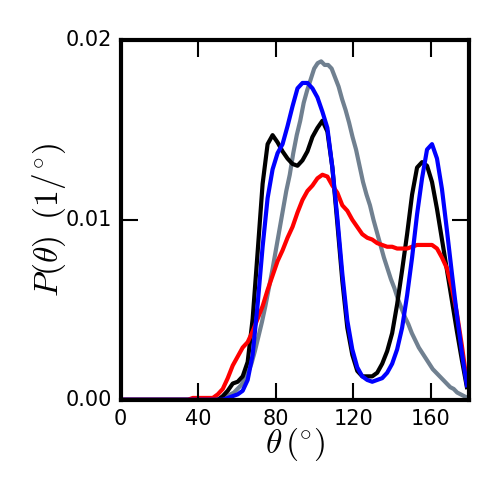
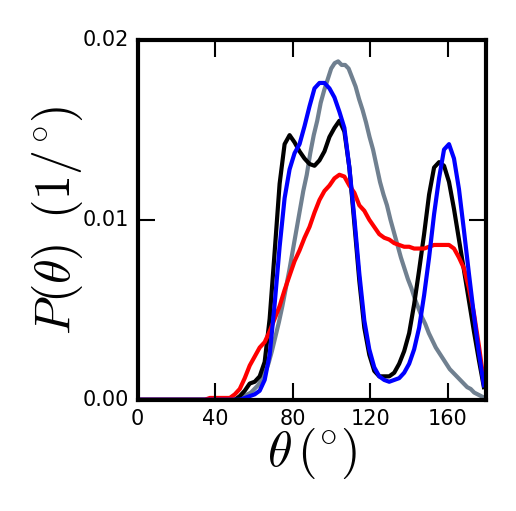
More work and getting ready to send to THG

Changed region(s): [[0.0601, 0.0609, 0.9619, 0.9432]]

diff --git a/paper/confinement.tex b/paper/confinement.tex
@@ -58,14 +58,14 @@
 %% when authors are associated with multiple institutions.
 %%%%%%%%%%%%%%%%%%%%%%%%%%%%%%%%%%%%%%%%%%%%%%%%%%%%%%%%%%%%%%%%%%%%%
 \author{Lisa E. Felberg}
-\altaffiliation{Department of Chemical and Biomolecular Engineering, University of California Berkeley, Berkeley, California 94720, USA}
+\affiliation{Department of Chemical and Biomolecular Engineering, University of California Berkeley, Berkeley, California 94720, USA}
 \author{Luis A. Ruiz Pestana}
-\altaffiliation{Chemical Sciences Division, Lawrence Berkeley National Labs, Berkeley, California 94720, USA}
+\affiliation{Chemical Sciences Division, Lawrence Berkeley National Labs, Berkeley, California 94720, USA}
 \author{Teresa Head-Gordon}
-\altaffiliation{Department of Chemical and Biomolecular Engineering, University of California Berkeley, Berkeley, California 94720, USA}
-\altaffiliation{Chemical Sciences Division, Lawrence Berkeley National Labs, Berkeley, California 94720, USA}
-\alsoaffiliation[DOC]{Department of Chemistry, University of California Berkeley, Berkeley, California 94720, USA}
-\alsoaffiliation[DOB]{Department of Bioengineering, University of California Berkeley, Berkeley, California 94720, USA}
+\affiliation{Department of Chemical and Biomolecular Engineering, University of California Berkeley, Berkeley, California 94720, USA}
+\alsoaffiliation{Chemical Sciences Division, Lawrence Berkeley National Labs, Berkeley, California 94720, USA}
+\alsoaffiliation{Department of Chemistry, University of California Berkeley, Berkeley, California 94720, USA}
+\alsoaffiliation{Department of Bioengineering, University of California Berkeley, Berkeley, California 94720, USA}
 \email{thg@berkeley.edu}
 
 %%%%%%%%%%%%%%%%%%%%%%%%%%%%%%%%%%%%%%%%%%%%%%%%%%%%%%%%%%%%%%%%%%%%%
@@ -132,13 +132,14 @@ The properties and phase behavior of water under nanoconfinement are remarkably 
 	
 	When water is confined under slit nanocapillaries it adopts a multi-layered structure characterized by strong density fluctuations along the direction of confinement. The effect of the confining surfaces persists at short range, ca. 5 \r A \cite{Cicero2008,Chialvo2016}, therefore multi-layered states of only up to three layers can be stable under planar confinement. In fact, trilayers of ice \cite{Algara-Siller2015,Satarifard2017,Zhu2015} and liquid water \cite{Giovambattista2009,Qiu2015} have been reported, but nothing beyond that. The tendency to form layered structures makes the commensurability between the confinement distance and the density of water an important aspect. In an incommensurate configuration, the density of water is too high or two low, all other control parameters constant, for the water molecules to form full layers of whatever phase is lower in energy under those thermodynamic conditions. A recent study found that oscillations in the shear viscosity of confined water of several orders of magnitude occur over small variations in the confinement distance (under 1 \r A) due to transitions between incommensurate and commensurate states \cite{Neek-Amal2016}. Phase transitions can also be triggered upon changes in commensurability. Giovambattista et al. found a transition between a bilayer liquid (BL) and a trilayer heterogeneous fluid (THF) upon increasing the density of water while keeping the confinement distance constant between 8 \r A and 9 \r A. The THF phase was characterized by highly ordered layers close to the confining surfaces and a disordered middle layer. When the confinement distance was kept at 6 \r A, a transition between THF and bilayer ice (BI) occurred upon decompression instead. Commensurability also plays a critical role on the formation of crystalline configurations with long-range in-plane order such as ice \cite{Satarifard2017,Chen2017,Corsetti2016}. For commensurate configurations at room temperature, multi-layered ice can form under confinement at pressures in the order of several GPa \cite{Zhu2015}. A special case is the formation of square ice from droplets of water confined between graphene sheets, which was observed at ambient pressure \cite{Algara-Siller2015}. However, in that case, the interfacial adhesion forces between the confining graphene surfaces were able to generate a pressure of around 1 GPa within the confined space. Interestingly, it has been proposed that upon increasing the density of water, a confined system can transition from liquid, to a low-density ice phase, back to high-density liquid, to finally a high-density ice phase \cite{Han2010}.
 	
-	Here, using molecular dynamics simulations, we study the phase behavior of water confined under flexible graphene sheets at ambient temperature and pressure (0.1 MPa and 300 K). We systematically vary the amount of water in the nanocapillary, \(\rho_{2D}\), and relax the system in the confinement direction so that it reaches an equilibrium confinement distance, \(d_{gg}\). We also simulate the same systems using rigid graphene sheets for comparison. We find that both rigid and flexible cases show intervals of \(\rho_{2D}\) where the \(d_{gg}\) changes smoothly, which correspond to monolayer, bilayer, and trilayer states of the system. However, we find that the transitions between multi-layered states are qualitatively different for the rigid and flexible cases. The rigid systems exhibit discontinuous transitions, characterized by sudden jumps in \(d_{gg}\). Under flexible confinement we find instead that the graphene sheets bend slightly to accommodate an n-layer and an n+1-layer state coexisting next to each other. This finding suggests that incommensurate states are energetically unfavorable, so that when the constrain of infinite rigidity of the confining surfaces is relaxed, the system splits into two commensurate states with a different number of layers. A similar coexisting state has been observed under imposed inhomogeneous confinement \cite{Qiu2015}, with the important difference that the inhomogeneity is not enforced here. Regarding the in-plane phase behavior, at incommensurate configurations in the monolayer and bilayer states, we observe solid-gas coexistence. The water molecules in the solid phase can this way develop crystalline order that would be impossible otherwise if the ice had to tile the entire confining space. We identify square and rhombic ice in the monolayer state, and AA-stacking hexagonal ice in the bilayer state, with both containing a large number of defects arising from the incommensurability between the rectangular boundaries of the simulation box and the circular geometry of the solid-gas interface. Our study provides new comprehensive understanding of the phase behavior of confined water, and sheds light into the role of flexible confinement and its interplay with commensurability effects. Furthermore, our results, based on a realistic model of graphene, will be useful to interpret experimental results in the future, where graphene is ubiquitously employed.
+	Here, using molecular dynamics simulations, we study the phase behavior of water confined under flexible graphene sheets at ambient temperature and pressure (0.1 MPa and 300 K). We systematically vary the amount of water in the nanocapillary, \(\rho_{2D}\), and relax the system in the confinement direction so that it reaches an equilibrium confinement distance, \(d_{gg}\). We also simulate the same systems using rigid graphene sheets for comparison. We find that both rigid and flexible cases show intervals of \(\rho_{2D}\) where the \(d_{gg}\) changes smoothly, which correspond to monolayer, bilayer, and trilayer states of the system. However, we find that the transitions between multi-layered states are qualitatively different for the rigid and flexible cases. The rigid systems exhibit discontinuous transitions, characterized by sudden jumps in \(d_{gg}\). Under flexible confinement we find instead that the graphene sheets bend slightly to accommodate an n-layer and an n+1-layer state coexisting next to each other. This finding suggests that incommensurate states are energetically unfavorable, such that when the constraint of infinite rigidity of the confining surfaces is relaxed, the system splits into two commensurate states with a different number of layers. A similar coexisting state has been observed under imposed inhomogeneous confinement \cite{Qiu2015}, with the important difference that the inhomogeneity is not enforced here. Regarding the in-plane phase behavior, at incommensurate configurations in the monolayer and bilayer states, we observe solid-gas coexistence. The water molecules in the solid phase can this way develop crystalline order that would be impossible otherwise if the ice had to tile the entire confining space. We identify square and rhombic ice in the monolayer state, and AA-stacking hexagonal ice in the bilayer state, with both containing a large number of defects arising from the incommensurability between the rectangular boundaries of the simulation box and the circular geometry of the solid-gas interface. Our study provides new comprehensive understanding of the phase behavior of confined water and sheds light into the role of flexible confinement and its interplay with commensurability effects. Furthermore, our results, based on a realistic model of graphene, will be useful to interpret experimental results in the future, where graphene is ubiquitously employed.
 
 \section{Results and discussion}
 
 	In this section, we first analyze how the number of layers in the system varies as we increase the 2D density of water, \(\rho_{2D}\), effectively characterizing the out-of-plane response of the system to confinement. We will refer to the monolayer, bilayer, trilayer states as ML, BL, and TL. Second, we analyze the phase behavior of water for each case, which will give us detailed information about the phase of water: solid, liquid, or gas. We will highlight throughout the differences between flexible and rigid confinement. 
 	
-	The only control parameter in our system is \(\rho_{2D}\) (i.e. the confinement distance is not prescribed). We investigate values of \(\rho_{2D}\) from \(\sim0.06\) to \(\sim0.5\), which allows us to sample systems ranging from an incomplete ML to TL systems and beyond. By using \(\rho_{2D}\) as a control parameter we also avoid making ambiguous assignments of the 3D density under confinement, which requires choosing an ill-defined excluded distance from the confining surfaces. Figure \ref{fig:dgg_1} shows the dependence of the equilibrium confining distance, \(d_{gg}\), on \(\rho_{2D}\), for both flexible and rigid cases. We observe three well-defined regimes characterized by smooth changes of \(d_{gg}\), which are separated by discontinuous transitions signaled by abrupt changes in \(d_{gg}\). The first regime, 6 \r A < \(d_{gg}\) < 8 \r A, corresponds to ML states, the second regime, 8 \r A \(d_{gg}\) < 10 \r A, to BL states, and beyond 10 \r A to TL states. This behavior is in agreement with previous studies. In the ML and BL states, the equilibrium confinement distance varies only marginally as \(\rho_{2D}\) is increased. For the TL case, however, a linear dependence is observed, \(d_{gg} \propto \rho_{2D}\). This is signature of bulk behavior where \(\rho_{3D}\) = constant, and because \(\rho_{3D}\) = \(\rho_{2D}\)/\(d_{gg}\), it implies that \(d_{gg} \propto \rho_{2D}\). 
+\subsection{Out-of-plane ordering}
+	The only control parameter in our system is \(\rho_{2D}\) (i.e. the confinement distance is not prescribed). We investigate values of \(\rho_{2D}\) from \(\sim0.06\) to \(\sim0.5\), which allows us to sample systems ranging from an incomplete ML to TL systems and beyond. By using \(\rho_{2D}\) as a control parameter we also avoid making ambiguous assignments of the 3D density under confinement, which requires choosing an ill-defined excluded distance from the confining surfaces. Figure \ref{fig:dgg_1} shows the dependence of the equilibrium confining distance, \(d_{gg}\), on \(\rho_{2D}\), for both flexible and rigid cases. We observe three well-defined regimes characterized by smooth changes of \(d_{gg}\), which are separated by discontinuous transitions signaled by abrupt changes in \(d_{gg}\). The first regime, 6 \r A < \(d_{gg}\) < 8 \r A, corresponds to ML states, the second regime, 8 \r A \(d_{gg}\) < 10 \r A, to BL states, and beyond 10 \r A to TL+ states. This behavior is in agreement with previous studies. In the ML and BL states, the equilibrium confinement distance varies only marginally as \(\rho_{2D}\) is increased. For the TL case, however, a linear dependence is observed, \(d_{gg} \propto \rho_{2D}\). This is signature of bulk behavior where \(\rho_{3D}\) = constant, and because \(\rho_{3D}\) = \(\rho_{2D}\)/\(d_{gg}\), it implies that \(d_{gg} \propto \rho_{2D}\). 
 	
 	\begin{figure}[ht!]
 		\centering
@@ -149,34 +150,36 @@ The properties and phase behavior of water under nanoconfinement are remarkably 
 		\label{fig:dgg_1}
 	\end{figure}
 	
-	The transitions between states with different number of layers occur for both rigid and flexible graphene at the same values of \(\rho_{2D}\), however they are qualitatively different. The rigid case is characterized by discontinuous ML-BL, and BL-TL transitions, although the latter seems more gradual than the former. Further work focusing on this transition  is required to establish unequivocally whether the BL-TL transition is continuous or discontinuous. In the case of flexible confinement, at the transitions we observe a split in the \(d_{gg}\) distances (shown as pink diamonds in Figure \ref{fig:dgg_1}). Upon closer inspection, we observe the coexistence of an n-layer and an (n+1)-layer state in the same system, spatially separated by an interface (Fig. \ref{fig:dgg_2}). We observe the split even for low density ML (Fig. \ref{fig:dgg_2}a), where the strong graphene adhesion helps forming pockets of ice, similarly to the phenomena observed in Ref.~\citenum{Algara-Siller2015}. The heat maps in Figure \ref{fig:dgg_2} show the position of water as a function of \(d_{gg}\) averaged over time. The nL/(n+1)L coexisting states are particularly clear in these plots.  
+	The transitions between states with different number of layers occur for both rigid and flexible graphene at the same values of \(\rho_{2D}\), however they are qualitatively different. The rigid case is characterized by discontinuous ML-BL, and BL-TL transitions, although the latter seems more gradual than the former. Further work focusing on this transition is required to establish unequivocally whether the BL-TL transition is continuous or discontinuous. In the case of flexible confinement, at the transitions we observe a split in the \(d_{gg}\) distances (shown as pink diamonds in Figure \ref{fig:dgg_1}). Upon closer inspection, we observe the coexistence of an n-layer and an (n+1)-layer state in the same system, spatially separated by an interface (Fig. \ref{fig:dgg_2}). We observe the split even for low density ML (Fig. \ref{fig:dgg_2}a), where the strong graphene adhesion helps forming pockets of ice, similarly to the phenomena observed in Ref.~\citenum{Algara-Siller2015}. The heat maps in Figure \ref{fig:dgg_2} show the position of water as a function of \(d_{gg}\) averaged over time. The nL/(n+1)L coexisting states are particularly clear in these plots.  
 	
 	\begin{figure}[ht!]
 		\centering
 		\includegraphics[width=.89\textwidth]{dgg_snaps7}
-		\caption{\textit{Snapshots of out-of-plane water layering and heatmap of water location and graphene-graphene separation.} \textbf{Snapshots.} Water-graphene systems as a function of increasing 2D-density, water oxygens are red, graphene carbons are grey and water hydrogens are not displayed for clarity. Panels (i), (ii) and (iii) correspond to flexible systems, and panels (iv), (v), and (vi) correspond to rigid systems. Images not drawn to size. \textbf{Heatmaps.} 2D histogram of the distance of water to a reference wall versus the graphene-graphene separation distance, warmer colors representing a higher number of observations.}
+		\caption{\textit{Snapshots of out-of-plane water layering and heatmap of water location and graphene-graphene separation.} Left panels correspond to flexible systems, and right panels correspond to rigid systems. \textbf{Snapshots.} Water-graphene systems as a function of increasing 2D-density, water oxygens are red, graphene carbons are grey and water hydrogens are not displayed for clarity. \textbf{Heatmaps.} 2D histogram of the distance of water to a reference wall versus the graphene-graphene separation distance, warmer colors representing a higher number of observations.}
 		\label{fig:dgg_2}
 	\end{figure}
 	
-	The incommensurability of the systems at the transition points is evidenced by a broadening of the density peaks, as in the BL-TL transition illustrated in Figure \ref{fig:dgg_2_to_3}. The heat maps reveal two broad peaks in the case of rigid confinement and a split between BL and TL in the case of flexible graphene.   
+	The incommensurability of the systems at the transition points is evidenced by a broadening of the density peaks at \(\rho_{2D}\)=0.245, in the BL-TL transition illustrated in Figure \ref{fig:dgg_2_to_3}. The heat maps reveal two broad peaks in the case of rigid confinement and a split between BL and TL in the case of flexible graphene. Additionally at the \(\rho_{2D}\) depicted (0.245), the graphene separation for the rigid system falls between the split of the analogous flexible case (Fig \ref{fig:dgg_1}).
 	
 	\begin{figure}[ht!]
 		\centering
 		\includegraphics[width=0.49\textwidth]{d12_smearing} %
-		\caption{\textit{Snapshots of out-of-plane water layering and heatmap of water location and graphene-graphene separation for bilayer to trilayer transition.} \textbf{Snapshots.} Water-graphene systems as a function of increasing 2D-density, water oxygens are red, graphene carbons are grey and water hydrogens are not displayed for clarity. Images not drawn to size. \textbf{Heatmaps.} 2D histogram of the distance of water to a reference wall versus the graphene-graphene separation distance, warmer colors representing a higher number of observations.}
+		\caption{\textit{Snapshots of out-of-plane water layering and heatmap of water location and graphene-graphene separation for bilayer to trilayer transition.} (a,c) Water-graphene systems as a function of increasing 2D-density, water oxygens are red, graphene carbons are grey and water hydrogens are not displayed for clarity. Images not drawn to size. (b,d) 2D histogram of the distance of water to a reference wall versus the graphene-graphene separation distance, warmer colors representing a higher number of observations. (a-b) Represent flexible system, (c-d) represent rigid system.}
 		\label{fig:dgg_2_to_3}
 	\end{figure}
 	
 	%%%%%%%%%%%%%%%%%%%%%%%%%%%%%%%%%%%%%%%%
 	%%%%%%%%%%%%%%%%%%%%%%%%%%%%%%%%%%%%%%%%
 
-Besides the transitions between multi-layered states as \(\rho_{2D}\) is increased, full characterization of the state of water under confinement requires assessing the in-plane structure and dynamics, so that we can discern between ice, liquid, gas, or more complex phases such as glass or heterogeneous liquids. For this purpose, we calculate the oxygen-oxygen pair correlation function \(g_{OO}(R)\), the 3-body angle distributions between the oxygen atoms of coplanar water molecules, \(p(\theta\)), and the lateral mean-squared-displacement, \(MSD_{||}\), for all the cases. To calculate \(g_{OO}(R)\) the oxygen atoms were histogrammed into 0.6\r A bins according to their x-coordinate. The RDF was calculated for each bin, and the average of all bins is the \(g_{OO}(R)\). For the 3-body angle distributions, the angle \(\theta\) is the angle between the oxygen and the first and second nearest neighbors within the same bin. We estimate the lateral diffusion coefficient, \(\mathcal{D}_{||}\), from the lateral MSD using Einstein's relation.
+\subsection{In-plane structure}
 
-We start by analyzing the phase behavior in the ML state, which spans from \(\rho_{2D}=0.065\) to \(\rho_{2D}=0.130\) and 6 \r A < \(d_{gg}\) < 8 \r A (Figure \label{fig:struct_6_7_8}). For the lowest density investigated \(\rho_{2D}=0.065\), there is not enough water to form a full monolayer. In the rigid case this leads to liquid-vapor coexistence. We assign the liquid label because of the relatively high diffusivity of 2.26, which is close to bulk water. It is important to note, however, that the monolayer liquid does not resemble structurally bulk water characterized by tetrahedral order. The \(p(\theta\)) in this case reveals a peak at ~104 degrees, similarly to bulk water, but also a smaller peak arount 120 degrees. The RDF of this ML-liquid phase is also substantially more structured than bulk water. For \(\rho_{2D}=0.065\), the flexible system forms pockets of square and rhombic ice, characterized by peaks in \(p(\theta\)) at ~90 and 160 degrees. The regions where there is no water is because the graphene sheets are in close contact, there is no water vapor in the system. The diffusivity is 4 order of magnitude lower in the flexible case. When the density is increased to 0.097 and 0.130, for the rigid case Figure \ref{fig:gr_ang_6_7_8_r}a, the \(g_{OO}(R)\) become substantially more structured, and the \(p(\theta\)) are characterized by a bimodal distribution with peaks at 90 and 160 degrees, representative of square and rhombic ice respectively. Close up snapshots of these ice structures are shown in Figure \ref{fig:ice_sq}. The appearance of ice is also confirmed by the self-diffusion coefficients. At \(\rho_{2D}=0.097\) the ice phase coexists with a vapor phase, while the vapor phase practically vanishes at \(\rho_{2D}=0.130\). The flexible case is very similar to the rigid confinement for \(\rho_{2D}=0.130\), where ML-ice forms. However, at \(\rho_{2D}=0.130\) the system resembles the liquid-vapor coexistence observed for the rigid case at \(\rho_{2D}=0.065\). In summary, for the ML states, at \(\rho_{2D}=0.130\), before the transition to the BL, both rigid and flexible systems behave very similarly, displaying phases of ML-ice. For \(\rho_{2D}=0.065\) the rigid system shows a ML-liquid-vapor phase, and the flexible system displays pockets of ML-ice. For \(\rho_{2D}=0.097\) is the other way around, with the flexible systems displaying ML-liquid-vapor phase, and the rigid systems ML-ice-vapor coexistence. 
+Besides the transitions between multi-layered states as \(\rho_{2D}\) is increased, full characterization of the state of water under confinement requires assessing the in-plane structure and dynamics, so that we can discern between ice, liquid, gas, or more complex phases such as glass or heterogeneous liquids. For this purpose, we calculate the oxygen-oxygen pair correlation function \(g_{OO}(R)\), the 3-body angle distributions between the oxygen atoms of coplanar water molecules, \(p(\theta\)), and the lateral mean-squared-displacement, \(MSD_{||}\), for all the cases. To calculate \(g_{OO}(R)\), the oxygen atoms were histogrammed into 0.6\r A bins according to their x-coordinate. The RDF was calculated for each bin, and the average of all bins is the \(g_{OO}(R)\). For the 3-body angle distributions, the angle \(\theta\) is the angle between the oxygen and the first and second nearest neighbors within the same bin. We estimate the lateral diffusion coefficient, \(\mathcal{D}_{||}\), from the lateral MSD using Einstein's relation.
+
+We start by analyzing the phase behavior in the ML state, which spans from \(\rho_{2D}=0.062\) to \(\rho_{2D}=0.123\) and 6 \r A < \(d_{gg}\) < 8 \r A (Figure \ref{fig:struct_6_7_8}). For the lowest density investigated \(\rho_{2D}=0.062\), there is not enough water to form a full monolayer. In the rigid case this leads to liquid-vapor coexistence. We assign the liquid label because of the relatively high diffusivity of 2.26, reported in Figure \ref{fig:msd}a, which is close to bulk water. It is important to note, however, that the monolayer liquid does not resemble structurally bulk water characterized by tetrahedral order. The \(p(\theta\)) in this case reveals a peak at \(\sim\)104 degrees, similarly to bulk water, but also a smaller peak around 120 degrees. The RDF of this ML-liquid phase is also substantially more structured than bulk water. For \(\rho_{2D}=0.062\), the flexible system forms pockets of square and rhombic ice (Fig \ref{fig:ice_figs}a), characterized by peaks in \(p(\theta\)) at \(\sim\)90 and 160 degrees. The snapshot of the system reveals a region where there is no water, but unlike the rigid \(\rho_{2D}=0.062\) system, this area is not a vapor region, but a region of graphene-graphene contact (Fig \ref{fig:dgg_2}a), there is no water vapor in the flexible system. The diffusivity is 4 orders of magnitude lower in the flexible case. When the density is increased to 0.092 and 0.123, for the rigid case Figure \ref{fig:gr_ang_6_7_8_r}, the \(g_{OO}(R)\) become substantially more structured, and the \(p(\theta\)) are characterized by a bimodal distribution with peaks at 90 and 160 degrees, representative of square and rhombic ice respectively. Close up snapshots of these ice structures are shown in Figure \ref{fig:ice_figs}a. The appearance of ice is also confirmed by the self-diffusion coefficients. At \(\rho_{2D}=0.092\) the ice phase coexists with a vapor phase, while the vapor phase practically vanishes at \(\rho_{2D}=0.123\). The flexible case is very similar to the rigid confinement for \(\rho_{2D}=0.123\), where ML-ice forms. However, at \(\rho_{2D}=0.123\) the system resembles the liquid-vapor coexistence observed for the rigid case at \(\rho_{2D}=0.062\). In summary, for the ML states, at \(\rho_{2D}=0.123\), before the transition to the BL, both rigid and flexible systems behave very similarly, displaying phases of ML-ice. For \(\rho_{2D}=0.062\) the rigid system shows a ML-liquid-vapor phase, and the flexible system displays pockets of ML-ice between graphene-graphene contacts. For \(\rho_{2D}=0.092\), the flexible systems exhibit a ML-liquid-vapor phase, and the rigid systems exhibit a ML-ice-vapor coexistence. 
 	
-The results of the analysis for the BL states are shown in Figure \ref{fig:gr_ang_9_10_11_r}. The BL regime spans from \(\rho_{2D}=0.163\) to \(\rho_{2D}=0.227\) and 8 \r A < \(d_{gg}\) < 10 \r A. For the rigid case, the coexistence of ice and vapor is observed for \(\rho_{2D}=0.163\) and \(\rho_{2D}=0.196\). In contrast to the ML-ice, the BL-ice phase displays AA stacking hexagonal structure with an abundance of defects necessary to accommodate the nearly circular vapor-solid interface in the rectangular simulation box (Fig. \ref{fig:ice_figs}b). As \(\rho_{2D}\) is increased to 0.227, the amount of water confined is too large to develop in-plane crystalline order, and the water adopts a liquid phase, with small patches of ice nucleating and dissipating constantly. This effect is reflected in the lower-than-liquid self-diffusion coefficient, and in the shoulder at \(\theta\simeq140\) in the \(p(\theta\)) distribution. These ice nucleation events suggest that we are close to the solid-liquid phase transition. In the flexible case, for \(\rho_{2D}=0.163\) we have ML-liquid and BL-liquid coexisting. At higher densities, the system transitions to the BL state. The water phase in the BL states is very similar to that observed for rigid confinement when \(\rho_{2D}=0.227\), namely BL-liquid. The diffusivity when \(\rho_{2D}=0.227\) is slightly higher in the flexible case.
+The results of the analysis for the BL states are shown in Figure \ref{fig:struct_9_10_11}. The BL regime spans from \(\rho_{2D}=0.154\) to \(\rho_{2D}=0.215\) and 8 \r A < \(d_{gg}\) < 10 \r A. For the rigid case, the coexistence of ice and vapor is observed for \(\rho_{2D}=0.154\) and \(\rho_{2D}=0.185\). In contrast to the ML-ice, the BL-ice phase displays AA stacking hexagonal structure with an abundance of defects necessary to accommodate the nearly circular vapor-solid interface in the rectangular simulation box (Fig. \ref{fig:ice_figs}b). This is confirmed by the enhanced structure of the \(g_{OO}(R)\) plots in Fig \ref{fig:gr_ang_9_10_11_r}, which exhibit a smooth oscillatory structure, higher than bulk water and qualitatively different from the structure of square ice. Additionally, the peak of \(p(\theta\)) has shifted to \(\sim\)114 and the shoulder at 160 has vanished. As \(\rho_{2D}\) is increased to 0.215, the amount of water confined is too large to develop in-plane crystalline order, and the water adopts a liquid phase, with small patches of ice nucleating and dissipating constantly. This effect is reflected in the lower-than-liquid self-diffusion coefficient, and in the shoulder at \(\theta\simeq140\) in the \(p(\theta\)) distribution. These ice nucleation events suggest that we are close to the solid-liquid phase transition. In the flexible case, for \(\rho_{2D}=0.154\) we have ML-liquid and BL-liquid coexisting, as observed from simulation snapshots (Fig \ref{fig:gr_ang_9_10_11_f}. These coexisting phases are also structurally different, as confirmed by their \(g_{OO}(R)\) and \(p(\theta\)) plots. Although there are structural differences between the n=1 and n=2 regions of the system, the interface between the two prevents any solidification of the n=1 component, and the resulting \(D_{||}\) is similar to the other BL-liquid systems studied. At higher densities, the system transitions to the BL state. The water phase in the BL states is very similar to that observed for rigid confinement when \(\rho_{2D}=0.215\), namely BL-liquid. The diffusivity when \(\rho_{2D}=0.215\) is slightly higher in the flexible case.
 
-As we increase the density beyond 0.260, the systems transition into the TL states, where the differences between rigid and flexible systems are minor. Under our simulations conditions, the water in the TL state is in liquid phase, for both rigid and flexible systems, even the layers close to the confining surfaces. The only difference between flexible and rigid confinement for the TL state is the higher self-diffusion coefficients in the former case. But all converge towards bulk liquid at large densities. The analysis fo the TL states is in good agreement with previous studies (Ref.~\citenum{Mosaddeghi2012}).
+As we increase the density beyond 0.245, the systems transition into the TL state and subsequently into 4+ layer states, where the differences between rigid and flexible systems are minor. Under our simulations conditions, the water in the TL state is in liquid phase, for both rigid and flexible systems, even the layers close to the confining surfaces. The only difference between flexible and rigid confinement for the TL state is the higher self-diffusion coefficients in the former case. But all converge towards bulk liquid at large densities. The analysis for the TL states is in good agreement with previous studies (Ref.~\citenum{Mosaddeghi2012}).
 
 \setlength{\fboxsep}{0.75pt}%
 \setlength{\fboxrule}{1.2pt}%
@@ -208,7 +211,7 @@ As we increase the density beyond 0.260, the systems transition into the TL stat
     \caption{}
     \label{fig:gr_ang_6_7_8_f}
   \end{subfigure}}
-	\caption{\textit{Monolayer lateral oxygen-oxygen pair correlation functions, three-body angle distributions, and snapshots of monolayer systems.} (\protect\subref{fig:gr_ang_6_7_8_r}) rigid systems, (\protect\subref{fig:gr_ang_6_7_8_f}) flexible systems.  \textbf{Top.} Distribution of water oxygen distances and distribution of intralayer 3B angle formed between and given oxygen and its 2 nearest neighbors. \textbf{Bottom.} Snapshots of systems from left to right: \(\rho_{2D}=\) 0.065, 0.097, 0.130. Oxygens are in red, hydrogens are in white and for clarity, only one interlayer of water is depicted, and the graphene sheets are not displayed. Lateral diffusion coefficients are given in units of \((m^2/s) \times 10^9\), in the colored box in the bottom right corner. The lowest density system of (\protect\subref{fig:gr_ang_6_7_8_f}) is comprised of a coexistence between different number of water interlayers, highlighted in black (n=0) and blue (n=1).}
+	\caption{\textit{Monolayer lateral oxygen-oxygen pair correlation functions, three-body angle distributions, and snapshots of monolayer systems.} (\protect\subref{fig:gr_ang_6_7_8_r}) rigid systems, (\protect\subref{fig:gr_ang_6_7_8_f}) flexible systems.  \textbf{Top.} Distribution of water oxygen distances and distribution of intralayer 3B angle formed between and given oxygen and its 2 nearest neighbors. \textbf{Bottom.} Snapshots of systems from left to right: \(\rho_{2D}=\) 0.062, 0.092, 0.123. Oxygens are in red, hydrogens are in white and for clarity, only one interlayer of water is depicted, and the graphene sheets are not displayed. Lateral diffusion coefficients are given in units of \((m^2/s) \times 10^9\), in the colored box in the bottom right corner. The lowest density system of (\protect\subref{fig:gr_ang_6_7_8_f}) is comprised of a coexistence between different number of water interlayers, highlighted in black (n=0) and blue (n=1).}
 	\label{fig:struct_6_7_8}
 \end{figure}
 
@@ -239,13 +242,13 @@ As we increase the density beyond 0.260, the systems transition into the TL stat
     \caption{}
     \label{fig:gr_ang_9_10_11_f}
   \end{subfigure}}
-	\caption{\textit{Bilayer lateral oxygen-oxygen pair correlation functions, three-body angle distributions, and snapshots of monolayer systems.} (\protect\subref{fig:gr_ang_9_10_11_r}) rigid systems, (\protect\subref{fig:gr_ang_9_10_11_f}) flexible systems. \textbf{Top.} Distribution of water oxygen distances and distribution of intralayer 3B angle formed between and given oxygen and its 2 nearest neighbors. \textbf{Bottom.} Snapshots of systems from left to right: \(\rho_{2D}=\) 0.163, 0.196, 0.227. Oxygens are in red, hydrogens are in white and for clarity, only one interlayer of water is depicted, and the graphene sheets are not displayed. Lateral diffusion coefficients are given in units of \((m^2/s) \times 10^9\), in the colored box in the bottom right corner. The lowest density system of (\protect\subref{fig:gr_ang_9_10_11_f}) is comprised of a coexistence between different number of water interlayers, highlighted in black (n=1) and blue (n=2).}
+	\caption{\textit{Bilayer lateral oxygen-oxygen pair correlation functions, three-body angle distributions, and snapshots of monolayer systems.} (\protect\subref{fig:gr_ang_9_10_11_r}) rigid systems, (\protect\subref{fig:gr_ang_9_10_11_f}) flexible systems. \textbf{Top.} Distribution of water oxygen distances and distribution of intralayer 3B angle formed between and given oxygen and its 2 nearest neighbors. \textbf{Bottom.} Snapshots of systems from left to right: \(\rho_{2D}=\) 0.154, 0.185, 0.215. Oxygens are in red, hydrogens are in white and for clarity, only one interlayer of water is depicted, and the graphene sheets are not displayed. Lateral diffusion coefficients are given in units of \((m^2/s) \times 10^9\), in the colored box in the bottom right corner. The lowest density system of (\protect\subref{fig:gr_ang_9_10_11_f}) is comprised of a coexistence between different number of water interlayers, highlighted in black (n=1) and blue (n=2).}
 	\label{fig:struct_9_10_11}
 \end{figure}
 
 \begin{figure}[ht!]
 	\centering
-	\begin{subfigure}[b]{0.28\textwidth}
+	\begin{subfigure}[b]{0.30\textwidth}
     		\includegraphics[trim={0.25cm 0.25cm 0.15cm 0.15cm},clip,width=0.99\textwidth]{diffusion_coeff_2D_f_r}
 		\caption{}
     		\label{fig:diff}
@@ -259,28 +262,19 @@ As we increase the density beyond 0.260, the systems transition into the TL stat
 	\label{fig:msd}
 \end{figure}
 
-%%%%%%%%%%%%%%%%%%%%%%%%%%%%%%%%%%%%%%%%
-%%%%%%%%%%%%%%%%%%%%%%%%%%%%%%%%%%%%%%%%
-
 \begin{figure}[ht!]
 	\centering
-	\begin{subfigure}[b]{0.395\textwidth}
-    		\includegraphics[width=.99\textwidth]{ice_square}
-		\caption{}
-        		\label{fig:ice_sq}
-  	\end{subfigure}
-	\begin{subfigure}[b]{0.285\textwidth}
-    		\includegraphics[width=.99\textwidth]{ice_hex}
-		\caption{}
-        		\label{fig:ice_hx}
-  	\end{subfigure}
-	\caption{\textit{Snapshots of the ice forms observed.} Oxygens are in red and cyan, hydrogens are in white. (\protect\subref{fig:ice_sq}) Square and off-square ice observed in the following monolayer systems: \(\rho_{2D}=\)0.065 (flexible), \(\rho_{2D}=\)0.097 (rigid), \(\rho_{2D}=\)0.130 (both). (\protect\subref{fig:ice_hx}) Hexagonal ice, observed in \(\rho_{2D}=\)0.163 and 0.196 (rigid). The top figure is a snapshot of the in-plane ordering. On the bottom, the A-A stacking between layers is highlighted by depicting the oxygens of each layer in red and cyan. Hydrogens are not pictured.}
+	\includegraphics[width=.75\textwidth]{ices_all}
+	\caption{\textit{Ice forms observed.} Oxygens are in red and cyan, hydrogens are in white. (a) Square and off-square ice observed in the following monolayer systems: \(\rho_{2D}=\)0.062 (flexible), \(\rho_{2D}=\)0.092 (rigid), \(\rho_{2D}=\)0.123 (both). (b-d) Hexagonal ice, observed in \(\rho_{2D}=\)0.154 and 0.185 (rigid). (b) a snapshot of the in-plane ordering. (c-d) the A-A stacking between layers is highlighted by depicting the oxygens of each layer in red and cyan. Hydrogens are not pictured. (e) \(g_{OO}(R)\) of square and hexagonal ice. (f) \(p(\theta)\) of square and hexagonal ice.}
 	\label{fig:ice_figs}
 \end{figure}
 
 \clearpage
-
-\section*{Computational Methods}
+%%%%%%%%%%%%%%%%%%%%%%%%%%%%%%%%%%%%%%%%
+%%%%%%%%%%%%%%%%%%%%%%%%%%%%%%%%%%%%%%%%
+%%%%%%%%%%%%%%%%%%%%%%%%%%%%%%%%%%%%%%%%
+%%%%%%%%%%%%%%%%%%%%%%%%%%%%%%%%%%%%%%%%
+\section{Computational Methods}
 	
 	The model system consists of two parallel graphene sheets with water molecules filling the two interlayer spacings at a prescribed density \(\rho_{2D}\). The confinement occurs in the x-direction, and the in-plane dimensions of the system are \(L_y\) = 46.2 \r A, and  \(L_z\) = 48.5 \r A. Periodic boundary conditions are applied in all dimensions. We use the TIP4P-Ew model of water \cite{Horn2004}, and the parameters for graphene have been adapted from previous works \cite{Hummer2001,Patra2009}. All the bonded parameters are summarized in Table \ref{table:ff_parms}, and the non-bonded parameters in Table \ref{table:ff_parms_atoms}. 
 	

diff --git a/python/dics.py b/python/dics.py
@@ -16,29 +16,31 @@ colorL = [
          ]
 
 dens = {
-         6   :   [0.065, colorL[0], "-"],
-         7   :   [0.097, colorL[1], "-"],
-         8   :   [0.130, colorL[-4], "-"],
-         9   :   [0.163, colorL[0], "-"],
-         10  :   [0.196, colorL[1], "-"],
-         11  :   [0.227, colorL[-4], "-"],
-         12  :   [0.260, colorL[0], "-"],
-         13  :   [0.293, colorL[2], "-"],
-         14  :   [0.325, colorL[1], "-"],
-         16  :   [0.390, colorL[-4], "-"],
-         20  :   [0.521, colorL[0], "-"],
+         6   :   [0.062, colorL[0], "-"],
+         7   :   [0.092, colorL[1], "-"],
+         8   :   [0.123, colorL[-4], "-"],
+         9   :   [0.154, colorL[0], "-"],
+        #8   :   ["square", colorL[-4], "-"],
+        #9   :   ["hexagonal", colorL[1], "-"],
+         10  :   [0.185, colorL[1], "-"],
+         11  :   [0.215, colorL[-4], "-"],
+         12  :   [0.245, colorL[0], "-"],
+         13  :   [0.276, colorL[2], "-"],
+         14  :   [0.307, colorL[1], "-"],
+         16  :   [0.369, colorL[-4], "-"],
+         20  :   [0.491, colorL[0], "-"],
          37  :   ["bulk", colorL[-1], "-"],   # for bulk
-         91  :   ["0.163 1L", colorL[0], "--"],
-         92  :   ["0.163 2L", colorL[0], "-"],
-         121 :   ["0.260 2L", colorL[0], "--"],
-         122 :   ["0.260 3L", colorL[0], "-"],
-         131 :   ["0.293 mid", colorL[10], "--"],
-         132 :   ["0.293 out", colorL[10], "-"],
-         141 :   ["0.325 mid", colorL[1], "--"],
-         142 :   ["0.325 out", colorL[1], "-"],
-         161 :   ["0.390 mid", colorL[-4], "--"],
-         162 :   ["0.390 out", colorL[-4], "-"],
-         201 :   ["0.521 mid", colorL[0], "--"],
-         202 :   ["0.521 out", colorL[0], "-"],
+         91  :   ["0.154 1L", colorL[0], "--"],
+         92  :   ["0.154 2L", colorL[0], "-"],
+         121 :   ["0.245 2L", colorL[0], "--"],
+         122 :   ["0.245 3L", colorL[0], "-"],
+         131 :   ["0.276 mid", colorL[10], "--"],
+         132 :   ["0.276 out", colorL[10], "-"],
+         141 :   ["0.307 mid", colorL[1], "--"],
+         142 :   ["0.307 out", colorL[1], "-"],
+         161 :   ["0.369 mid", colorL[-4], "--"],
+         162 :   ["0.369 out", colorL[-4], "-"],
+         201 :   ["0.491 mid", colorL[0], "--"],
+         202 :   ["0.491 out", colorL[0], "-"],
 }
 

diff --git a/python/plot_diffusion.py b/python/plot_diffusion.py
@@ -27,8 +27,11 @@ def plot_scatter(csv):
 
     # compressibility
     if "compressibility" in csv.csvfname:
-        xm = 900; bbox = (1.01, 1.15); texty=xm*0.89
-        ax.set_ylabel(r"$(\langle l_x^2 \rangle - \langle l_x \rangle^2)^{-1}\, (m^{-2})$",fontsize= 8)
+        xm = 65; bbox = (1.01, 1.25); texty=xm*0.89
+        x = np.linspace(0,1,70); y = np.ones(70)*48.1
+        plt.plot(x,y, 'r--',dashes=(1.5,0.9),linewidth=0.7,label="bulk,\n298K")
+       #ax.set_ylabel(r"$\left(\langle l_x^2 \rangle - \langle l_x \rangle^2 \right )\, (Pa^{-1} \times 10^{-11})$",fontsize= 8)
+        ax.set_ylabel(r"$\kappa_T \times 10^{-11}\,\,\, (Pa^{-1})$",fontsize= 8)
 
     # diffusion coefficients
     else:
@@ -39,8 +42,8 @@ def plot_scatter(csv):
         ax.set_yscale("log", nonposy='clip')
 
     # PLotting the delineation between layers 1-2 (rho=0.1465), 2-3 (0.265),3-4
-    y=np.linspace(0,xm,70);
-    x1=np.ones(70)*0.1465; x2=np.ones(70)*0.26;x3=np.ones(70)*0.3525
+    y=np.linspace(0,xm,70);bbox = (1.01, 1.25)
+    x1=np.ones(70)*0.1465; x2=np.ones(70)*0.245;x3=np.ones(70)*0.3525
     plt.plot(x1,y,'--',color=[0.439, 0.502, 0.565],dashes=(2.5,0.9),linewidth=0.7)
     plt.plot(x2,y,'--',color=[0.439, 0.502, 0.565],dashes=(2.5,0.9),linewidth=0.7)
     plt.plot(x3,y,'--',color=[0.439, 0.502, 0.565],dashes=(2.5,0.9),linewidth=0.7)
@@ -54,7 +57,6 @@ def plot_scatter(csv):
               bbox_to_anchor = bbox, 
               borderaxespad= 0.2)
     ax.set_xlabel(r"$\rho_{2D}$",fontsize= 10)
-   #ax.set_ylabel(r"$\rho_{3D} \, (g/cm^3)$",fontsize= 10)
     plt.savefig(csv.csvfname[:-4]+'.png',bbox_inches = 'tight')#,transparent=True)
     plt.close()
 

diff --git a/python/plot_msd.py b/python/plot_msd.py
@@ -6,39 +6,11 @@ from matplotlib.ticker import *
 MaxNLocator.default_params['nbins']=5
 
 from csvfile import CSVFile
+from dics import colorL, dens
 A2_TO_M2 = 1e-20
 PS_TO_S  = 1e12
 A2_PS_TO_M2_S = A2_TO_M2*PS_TO_S 
 
-colorL = [
-          [0,0,0], 
-          [1, 0, 0], 
-          [0,0,1], 
-          [0., 0.391, 0.], 
-          [0.859, 0.078, 0.234], 
-          [.93, .53, .18],
-          [0.801, 0.586, 0.047],
-          [0.289, 0.461, 1.],
-          [0.289, 0., 0.508], 
-          [0.777, 0.441, 0.441],
-          [0.777, 0.379, 0.078], 
-          [0., 0.9297, 0.9297]
-         ]
-
-dens = {
-         6   :   0.065,
-         7   :   0.097,
-         8   :   0.130,
-         9   :   0.163,
-         10  :   0.196,
-         11  :   0.227,
-         12  :   0.260,
-         13  :   0.293,
-         14  :   0.325,
-         16  :   0.390,
-         20  :   0.521,
-         37  :   0.99,   # for bulk
-}
 
 def plot_scatter(plt_nm, csvL, loc, sep, ln, itr):
     '''Using data from a histogram, plot several'''
@@ -78,7 +50,7 @@ def plot_scatter(plt_nm, csvL, loc, sep, ln, itr):
                #ax.plot(xd, xd*m + b, "r")
                #leg += [r'$\rho_{{2D}}=${0:.2f}'.format(dens[sep[i]])]
                 ct += 1
-            print("{0:.3f},{1:.7f}".format(dens[sep[i]],mav/nsam))
+            print("{0},{1:.7f}".format(dens[sep[i]][0],mav/nsam))
    #ax.set_xlim([0,800])
    #ax.set_ylim([0,800])
     bbox = [1.1, 0.95]

diff --git a/python/plot_gr.py b/python/plot_gr.py
@@ -35,15 +35,15 @@ def plot_scatter(plt_nm, csvL, sep, ln):
            ax.plot(dat[0], np.mean(dat[cls],axis=0)/nfct, dens[dn][2],
                    color = dens[dn][1], dashes = dsh, label=lg)
            ct += 1
-    ax.legend(ncol = 3, columnspacing = 0.4,
-        fontsize =  5 , handletextpad = 0.2,
-        handlelength = 1.3, borderaxespad = -0.9,
-        bbox_to_anchor = (0.8,1.2),
-        )
+   #ax.legend(ncol = 5, columnspacing = 0.4,
+   #    fontsize =  5 , handletextpad = 0.2,
+   #    handlelength = 1.3, borderaxespad = -0.9,
+   #    bbox_to_anchor = (0.8,1.2),
+   #    )
     ax.set_xlim([0,12.0]); ax.set_ylim([0,4.0])
     if "_1_2.csv" in csvL[i][j].csvfname:
-        ax.set_ylabel(r"$g_{{O-H}}(R)$ (a.u.)",fontsize=12)
-    else: ax.set_ylabel(r"$g_{{\mathrm{{O-O}}}}$(R) (a.u.)",fontsize=12)
+        ax.set_ylabel(r"$g_{{OH}}(R)$ (a.u.)",fontsize=12)
+    else: ax.set_ylabel(r"$g_{{OO}}$(R) (a.u.)",fontsize=12)
     ax.set_xlabel("R ($\AA$)",fontsize=12)
     ax.yaxis.labelpad = -0.6; ax.xaxis.labelpad = -0.6
     fname = plt_nm+mn+csvL[i][j].csvfname[-7:-4]+".png"

diff --git a/python/plot_3B_angles_multi.py b/python/plot_3B_angles_multi.py
@@ -31,8 +31,8 @@ def plot_scatter(plt_nm, csvL, sep, ln):
    #    bbox_to_anchor = (0.32,0.91),
    #    )
     ax.set_xlim([0,180]); ax.set_ylim([0,0.02])
-    ax.set_xlabel(r"$\theta \, (^{\circ})$",fontsize= 8)
-    ax.set_ylabel(r"$P(\theta) \,\,\, (1/^{\circ})$",fontsize= 8)
+    ax.set_xlabel(r"$\theta \, (^{\circ})$",fontsize= 12)
+    ax.set_ylabel(r"$P(\theta) \,\,\, (1/^{\circ})$",fontsize= 12)
     ax.yaxis.labelpad = -0.6; ax.xaxis.labelpad = -0.6
     fname = "ang_3B_"+mn[:-1]+".png"
     plt.savefig(fname, format='png', bbox_inches = 'tight', dpi=300) 

diff --git a/python/plot_3B_angles.py b/python/plot_3B_angles.py
@@ -24,8 +24,8 @@ def plot_scatter(csv, sep, ln, itr):
     plt.plot(x, y, color = "k")
     ax.set_xlim(rng); ax.set_ylim([0,0.02])
 
-    ax.set_xlabel(r"3 body angle ($^{\circ}$)",fontsize= 8)
-    ax.set_ylabel(r"Probability (1/$^{\circ}$)",fontsize= 8)
+    ax.set_xlabel(r"3 body angle ($^{\circ}$)",fontsize= 12)
+    ax.set_ylabel(r"Probability (1/$^{\circ}$)",fontsize= 12)
     plt.savefig(csv.csvfname[:-4]+'.png',bbox_inches = 'tight',)
 
     plt.plot((90.,90.), (0,10), 'y-')
